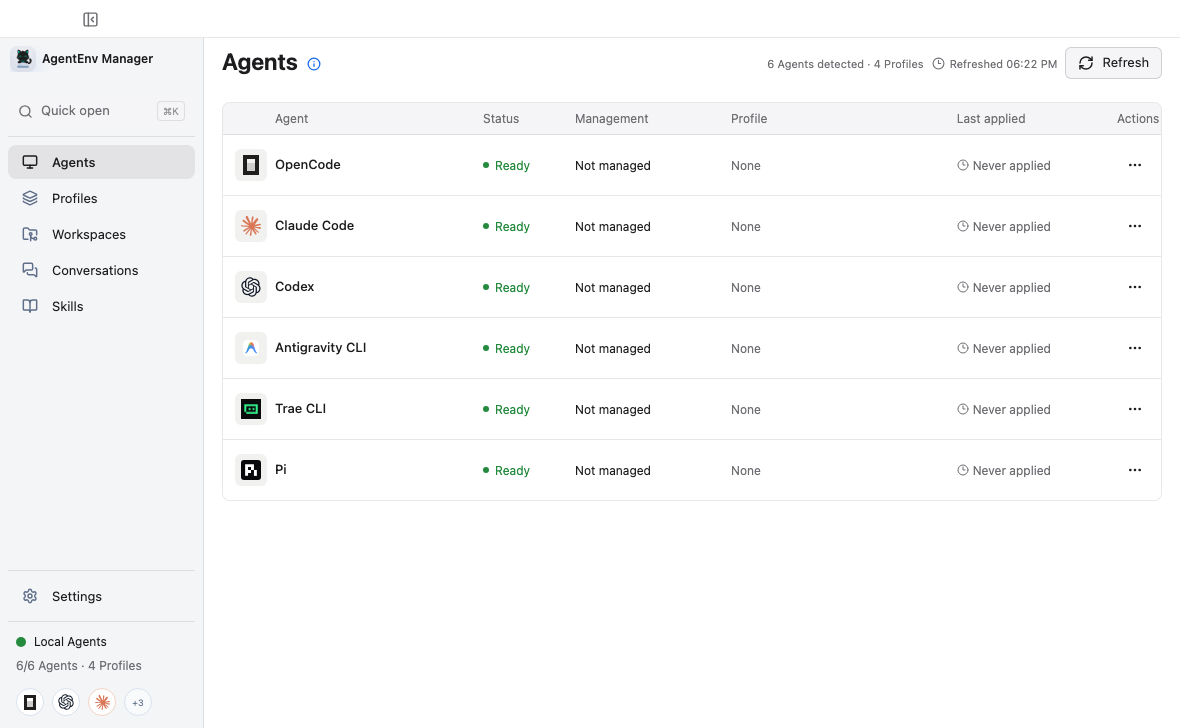
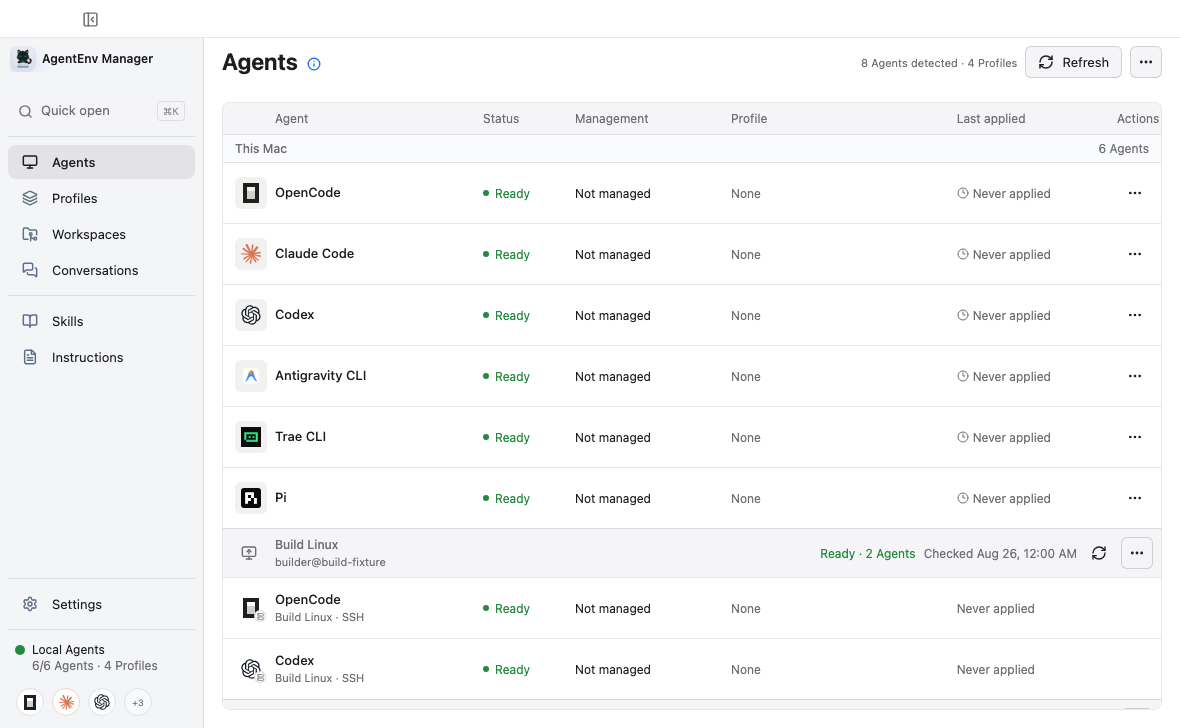
docs: refresh README and mock screenshots

diff --git a/README.en.md b/README.en.md
@@ -8,8 +8,9 @@ English | [简体中文](README.md)
 
 AgentEnv Manager keeps coding agent environments in one place. Its main features are:
 
-- **Profile switching:** Save combinations of Instructions, Skills, and MCP servers, then apply them to Codex, Claude Code, OpenCode, and other supported Agents.
-- **Skills management:** Import Skills from local folders, ZIP archives, GitHub, or Git repositories, manage them in one Library, and keep checking their sources for updates.
+- **Profile switching:** Combine Instructions, Skills, Skill Groups, and MCP choices, then apply them to Agents on this computer or an SSH Linux device.
+- **Instructions management:** Save reusable instruction blocks and compose them in order into each Agent's instruction file.
+- **Skills management:** Import Skills from local folders, ZIP archives, GitHub, or Git repositories, add tags and groups, and keep checking their sources for updates.
 - **Project environments:** Save frequently used project folders, manage their Instructions and Skills, and open them with an installed Agent.
 - **Conversation history:** Search local conversations from multiple Agents, return to the original session, or continue with another Agent.
 - **Try before Apply:** Preview Profile changes and run the same task with the current setup and a proposed Profile before deciding whether to apply it.
@@ -38,14 +39,14 @@ Formal macOS packages use the project's fixed self-signed identity, without a De
 
 ## First run
 
-1. Launch the app and confirm the Agents it detected. Agents that are not installed stay disabled by default.
-2. Configure an Agent from the Agents page. Save its current setup as a Profile, or start with an empty Profile.
+1. Launch the app and confirm the Agents it detected. Agents that are not installed stay disabled by default. To manage a remote environment, add a Linux device from your SSH configuration.
+2. Configure an Agent from the Agents page. Save its current setup and reusable Skills to a Profile and the Library, or start with an empty Profile.
 3. Changes are saved to the Profile automatically. Review the Apply preview before writing to the Agent. AgentEnv creates a recovery point first and attempts an automatic rollback after a failed write.
 4. Local Skills Manager appears only when Capture or Apply finds relevant local Skills that need confirmation. You can also open it from Skills when you want to organize the whole device.
 
 ## Profiles
 
-A Profile contains a reusable Agent setup: Instructions, Skills from the Library, and enablement choices for MCP servers already known to a supported Agent. Each resource type can use the Profile, be turned off, or keep the Agent's current state. Changes are saved to AgentEnv automatically but are not written to an Agent until Apply.
+A Profile contains a reusable Agent setup. It can compose ordered Instructions, select individual Skills, or include a Skill Group that continues to follow Library membership changes. MCP settings contain only enablement choices for servers already known to a supported Agent. Each resource type can use the Profile, be turned off, or keep the Agent's current state. Changes are saved to AgentEnv automatically but are not written to an Agent until Apply.
 
 ![Profiles](docs/images/profiles.png)
 
@@ -61,21 +62,29 @@ Compare runs the same task once with the current Agent setup and once with the p
 
 Both runs use isolated temporary Homes and Workspaces. Compare does not Apply the Profile or modify the real Agent or original folder, but it consumes quota from the Agent account. It currently requires macOS. OpenCode, Claude Code, Codex, Antigravity CLI, and Pi have verified implementations; Trae CLI does not expose a reliable one-shot command.
 
+## Instructions
+
+The Instruction Library stores reusable Markdown instruction blocks. A Profile can reference several Instructions, order them, and compile them into the instruction file used by the selected Agent during Apply. The Library and Profile use the same preview and editor, and editing shows which Profiles will be affected.
+
+![Instruction Library](docs/images/instructions.png)
+
+Project instructions in a Workspace remain owned by that folder and are not automatically linked to the Instruction Library.
+
 ## Workspaces
 
-Workspaces keep references to frequently used local folders and show the Instructions, Skills, and MCP names a selected Agent can load there. You can edit supported Workspace Instructions, copy Library Skills into ordinary folder-owned files, or open the folder with an installed Agent.
+Workspaces keep references to frequently used local folders and show the Instructions, Skills, and MCP names a selected Agent can load there. You can edit supported Workspace Instructions, copy an individual Library Skill or the currently enabled members of a Skill Group into ordinary folder-owned files, or open the folder with an installed Agent.
 
 ![Workspace resources](docs/images/workspaces.png)
 
-The folder remains the source of truth. A Workspace is not bound to a Profile, does not contain Library links, and does not stage or commit Git changes. Removing a Workspace deletes only the app reference. Explicit Workspace resource changes keep recovery records, so you can undo the latest change or restore an earlier version from Recovery.
+The folder remains the source of truth. A Workspace is not bound to a Profile, does not contain Library links, and does not stage or commit Git changes. A Skill Group is a one-time selection recipe here; its identity is not written into the project after copying. Removing a Workspace deletes only the app reference. Explicit Workspace resource changes keep recovery records, so you can undo the latest change or restore an earlier version from Recovery.
 
 ## Skill Library
 
-The Library keeps one reusable copy of each Skill. Import from a local folder, ZIP archive, GitHub path, or regular Git repository, then install Skills into Agent-specific directories through Profiles.
+The Library keeps one reusable copy of each Skill. Import from a local folder, ZIP archive, GitHub path, or regular Git repository, then install Skills into Agent-specific directories through Profiles. Tags help filter Skills by task. Manual Skill Groups can add a reusable set to several Profiles and keep those Profiles aligned when group membership changes.
 
 ![Skills grouped by source](docs/images/skills-by-source.png)
 
-The source view shows additions, updates, and removals within a repository or folder. It also supports merging sources, ignoring entries, and disabling update checks. `Local Skills` handles existing duplicate copies, content conflicts, broken links, and shared collections. Every cleanup action has a preview and keeps recovery records for changed files.
+The source view shows additions, updates, and removals within a repository or folder. It also supports merging sources, ignoring entries, and disabling update checks. `Groups` maintains manual collections; turning off a group preserves each member's own switch state. `Local Skills` handles existing duplicate copies, content conflicts, broken links, and shared collections. Every cleanup action has a preview and keeps recovery records for changed files.
 
 ## Conversations
 
@@ -96,9 +105,11 @@ The source Agent still owns the original history. AgentEnv does not edit convers
 
 Instructions, MCP, Conversations, and Compare support differs between Agents. The app shows only actions supported by the current Agent.
 
+The Agents page can also read the current user's SSH configuration and add Linux devices. Remote Profile Apply uses system SSH and manages only adapter-supported remote Instructions and copied Skills. Remote MCP definitions and credentials remain owned by the Agent.
+
 ## More features
 
-- Device Sync uses a dedicated private Git repository for portable Profiles and Skill Library data. Pull and publish both require review, and sync never Applies changes to a local Agent.
+- Device Sync uses a dedicated private Git repository for portable Profiles, the Instruction Library, the Skill Library, and manual Skill Groups. Pull and publish both require review, and sync never Applies changes to a local Agent.
 - Recovery collects recovery points created by Apply, Profile edits, Workspace changes, Skill cleanup, and sync. You can inspect files before restoring them.
 - GitHub sign-in raises API limits for repository imports and update checks. Regular Git and SSH repositories use system Git credentials.
 - The interface supports English, Simplified Chinese, and Traditional Chinese.
